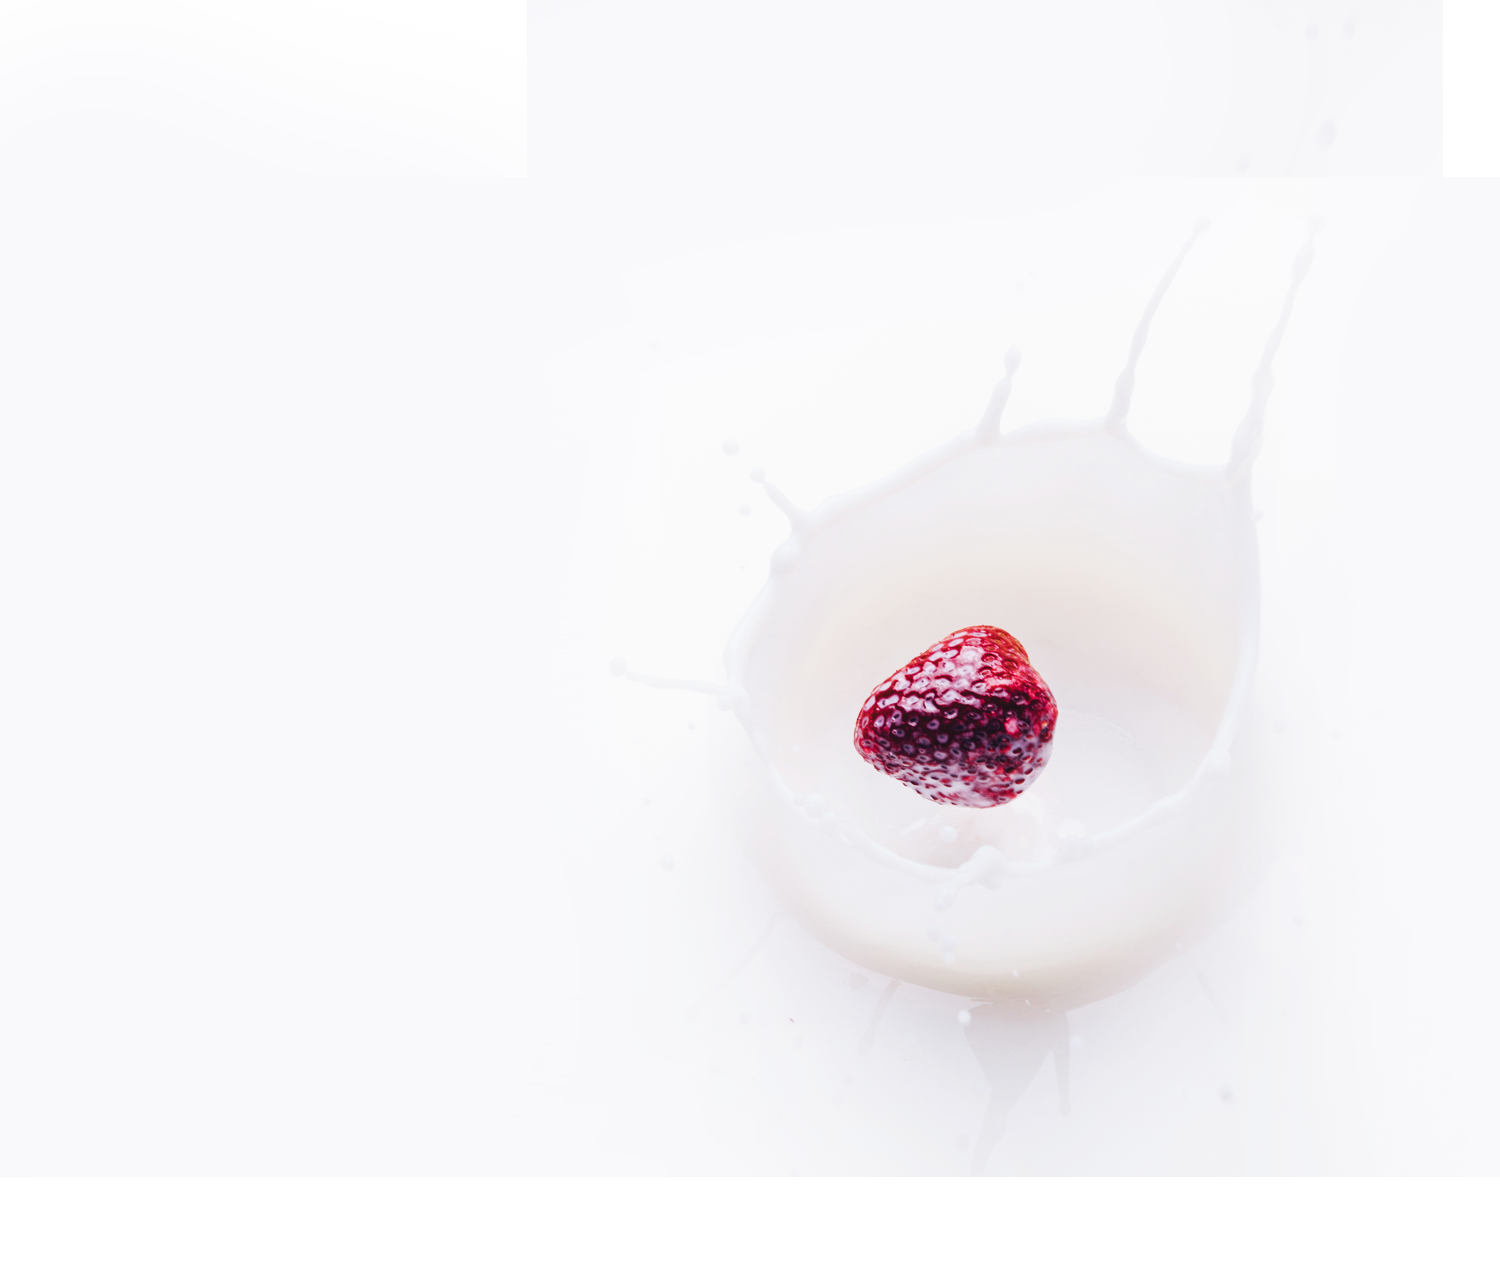
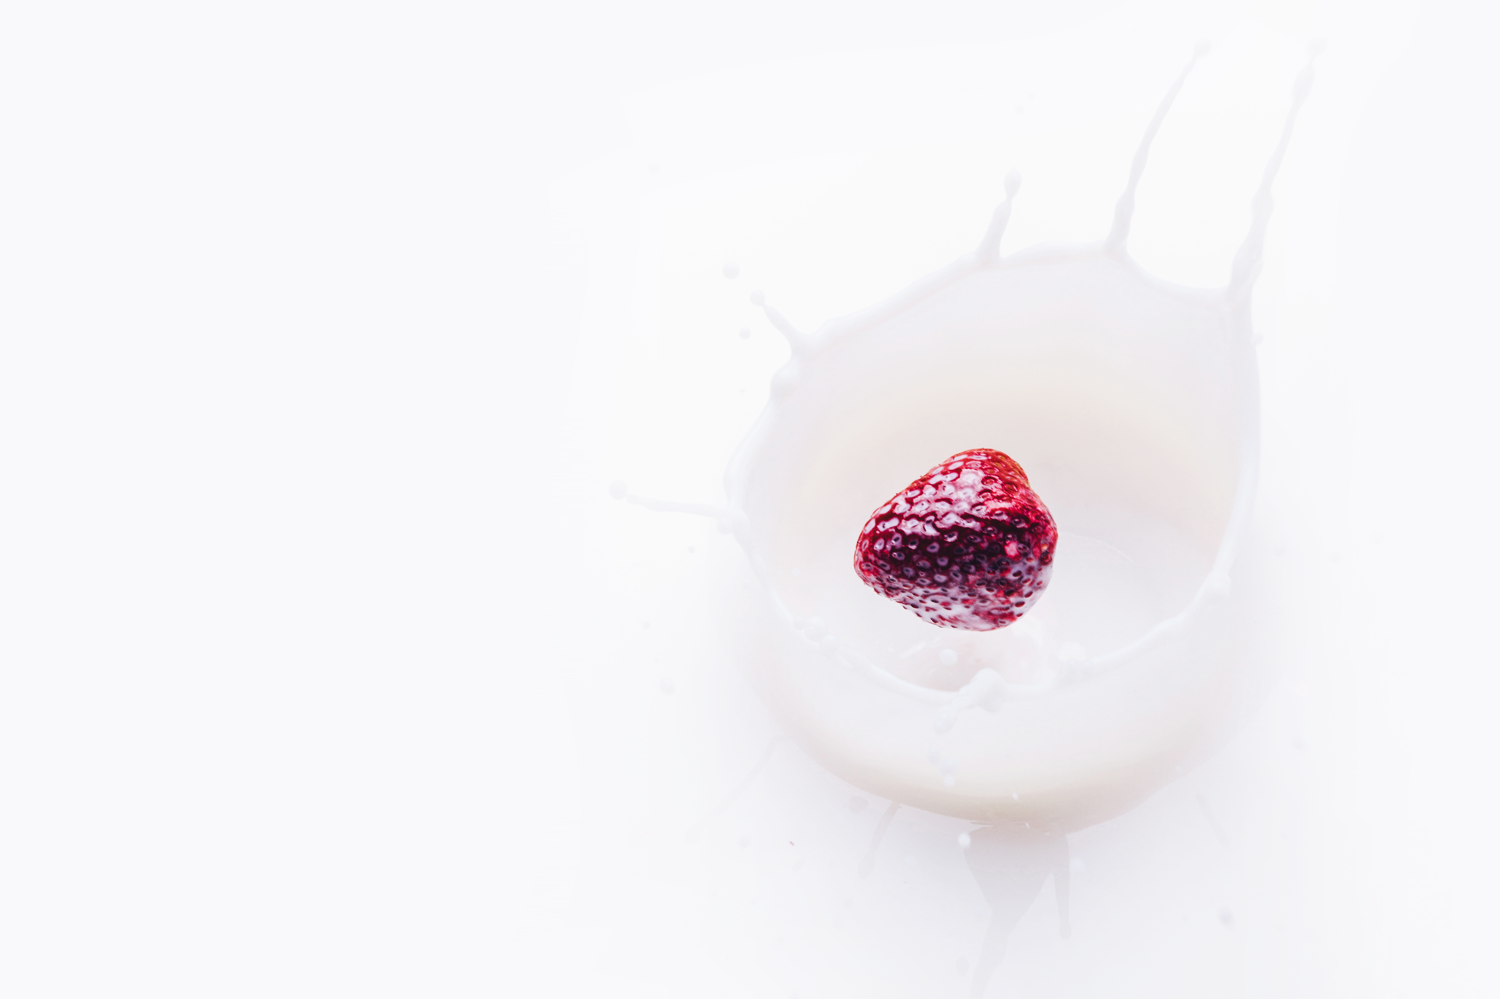
Ending header

Changed region(s): [[0.552, 0.4344, 0.7053, 0.6517], [0.6133, 0.7447, 0.736, 0.8378]]

diff --git a/sass/_header.sass b/sass/_header.sass
@@ -1,15 +1,20 @@
 header
     height: 1002px
-    background-color: red
-
+    background-image: url("/images/img_header.png")
+    background-repeat: no-repeat
+    background-position: center
+    background-size: cover
+    position: relative
+ 
 nav
-    background-color: yellow
-    width: 100%
-    display: flex
+    position: fixed
+    z-index: 1
+    display: flex 
     flex-direction: row
     justify-content: flex-end
     align-items: center
     div.logo
+        margin-left: 45px
         margin-right: 487px
         color: #262626
         font-size: 30px
@@ -23,28 +28,38 @@ nav
         flex-direction: row
         margin-right: 100px
         li
-            border: 1px solid black
             position: relative
             a  
                 display: inline-block
                 height: 100%
-                background-color: blue
                 padding: 10px 10px 0px 10px
                 font-family: Raleway
                 font-weight: 700
                 font-size: 26px
                 text-decoration: none
                 color: black
-                text-transform: uppercase
-                background-color: rgba(pink,0.6)
+                text-transform: uppercase       
                 
             a:hover + span
                 display: block
-                
-                height: 10px
+                position: absolute
+                top: 0
+                left: 10px
+                width: calc(100% - 20px)
+                height: 5px
                 background-color: orange
                 
         li:nth-child(1)
                 a
                     padding-left: 0px    
-                
+                a:hover + span
+                    width: calc(100% - 10px)
+                    left: 0
+
+aside
+    background-color: red
+    width: 369px
+    height: 216px
+    position: absolute
+    bottom: 410px
+    left: 164px

diff --git a/css/style.css b/css/style.css
@@ -6,19 +6,23 @@
 }
 
 html {
-  min-height: 100vh;
+  min-height: 300vh;
   max-width: 1500px;
   margin: 0 auto;
 }
 
 header {
   height: 1002px;
-  background-color: red;
+  background-image: url("/images/img_header.png");
+  background-repeat: no-repeat;
+  background-position: center;
+  background-size: cover;
+  position: relative;
 }
 
 nav {
-  background-color: yellow;
-  width: 100%;
+  position: fixed;
+  z-index: 1;
   display: -webkit-box;
   display: -ms-flexbox;
   display: flex;
@@ -35,6 +39,7 @@ nav {
 }
 
 nav div.logo {
+  margin-left: 45px;
   margin-right: 487px;
   color: #262626;
   font-size: 30px;
@@ -56,14 +61,12 @@ nav ul {
 }
 
 nav ul li {
-  border: 1px solid black;
   position: relative;
 }
 
 nav ul li a {
   display: inline-block;
   height: 100%;
-  background-color: blue;
   padding: 10px 10px 0px 10px;
   font-family: Raleway;
   font-weight: 700;
@@ -71,17 +74,34 @@ nav ul li a {
   text-decoration: none;
   color: black;
   text-transform: uppercase;
-  background-color: rgba(255, 192, 203, 0.6);
 }
 
 nav ul li a:hover + span {
   display: block;
-  height: 10px;
+  position: absolute;
+  top: 0;
+  left: 10px;
+  width: calc(100% - 20px);
+  height: 5px;
   background-color: orange;
 }
 
 nav ul li:nth-child(1) a {
   padding-left: 0px;
+}
+
+nav ul li:nth-child(1) a:hover + span {
+  width: calc(100% - 10px);
+  left: 0;
+}
+
+aside {
+  background-color: red;
+  width: 369px;
+  height: 216px;
+  position: absolute;
+  bottom: 410px;
+  left: 164px;
 }
 
 section.about-us {

diff --git a/index.html b/index.html
@@ -33,9 +33,9 @@
             </ul>
         </nav>
         <aside>
-            <h1></h1>
-            <p></p>
-            <button></button>
+            <h1>Fresh Life</h1>
+            <p>Sed do eiusmod tempor incididunt ut labore et dolore magna aliqua. Ut enim ad minim veniam, quis nostrud exercitation ullamco.</p>
+            <button>get free now</button>
         </aside>
         <div class="scroll">
             <img src="" alt="">

diff --git a/sass/style.sass b/sass/style.sass
@@ -4,7 +4,7 @@
     box-sizing: border-box
 
 html
-    min-height: 100vh
+    min-height: 300vh
     max-width: 1500px
     margin: 0 auto
 
